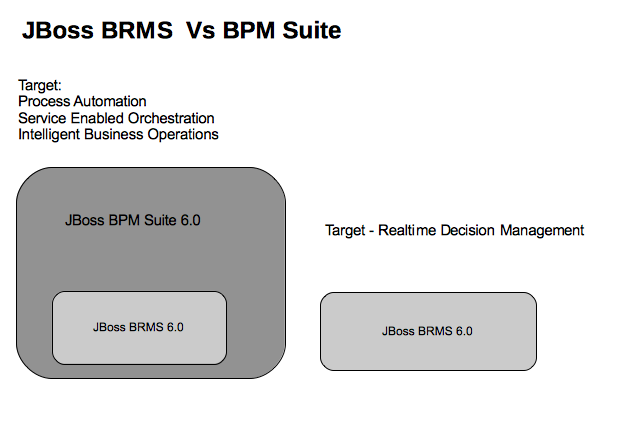
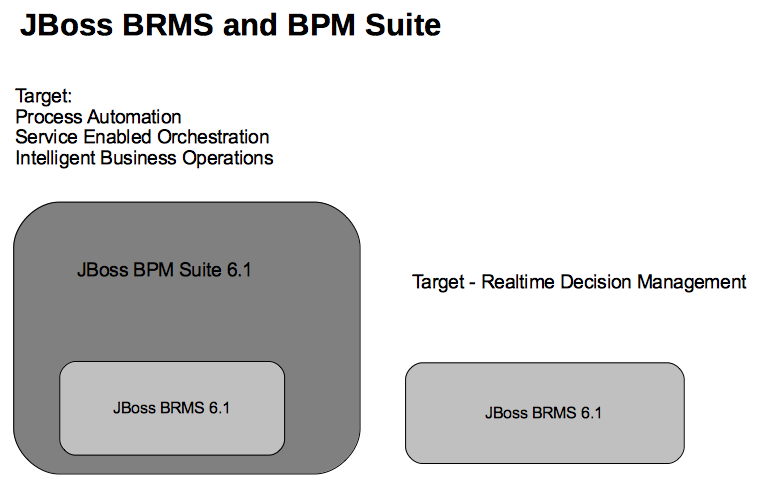
Updated for 6.1 release introduction talk.

diff --git a/introduction.html b/introduction.html
@@ -109,11 +109,27 @@
         </section>
 
         <section data-background-color="white">
-            <img width="100%" height="100%" src="images/jteimages/image43.png">
+            <img width="100%" height="100%" src="images/jteimages/image15.png">
         </section>
 
         <section data-background-color="white">
-            <img width="100%" height="100%" src="images/jteimages/image44.png">
+            <img width="100%" height="100%" src="images/jteimages/image16.png">
+        </section>
+
+        <section data-background-color="white">
+            <img width="100%" height="100%" src="images/jteimages/image17.png">
+        </section>
+
+        <section data-background-color="white">
+            <img width="100%" height="100%" src="images/jteimages/image18.png">
+        </section>
+
+        <section data-background-color="white">
+            <img width="100%" height="100%" src="images/jteimages/image19.png">
+        </section>
+
+        <section data-background-color="white">
+            <img width="100%" height="100%" src="images/jteimages/image43.png">
         </section>
 
         <section data-background-color="white">
@@ -156,10 +172,6 @@
         </section>
 
         <section data-background-color="white">
-            <img width="100%" height="100%" src="images/jteimages/image27.png">
-        </section>
-
-        <section data-background-color="white">
             <img width="100%" height="100%" src="images/jteimages/image28.png">
         </section>
 
@@ -171,31 +183,37 @@
         </section>
 
         <section data-background-color="white">
+            <div style="width: 1056px; height: 100px; color: white">
+                <h3>JBoss BRMS - Components</h3>
+            </div>
             <img src="images/brms_bpms_workshop/brms-arch.png">
         </section>
 
         <section data-background-color="white">
+            <div style="width: 1056px; height: 100px; color: white">
+                <h3>JBoss BRMS - Architecture</h3>
+            </div>
             <img width="100%" height="100%" src="images/jteimages/image34.png">
         </section>
 
         <section data-background-color="white">
-            <img width="100%" height="100%" src="images/jteimages/image35.png">
+            <div style="width: 1056px; height: 80px; color: white">
+                <h3>JBoss BPM Suite - Components</h3>
+            </div>
+            <img src="images/brms_bpms_workshop/bpmsuite-arch.png" width="60%">
         </section>
 
         <section data-background-color="white">
-            <img src="images/brms_bpms_workshop/bpmsuite-arch.png">
-        </section>
-
-        <section data-background-color="white">
+            <div style="width: 1056px; height: 100px; color: white">
+                <h3>JBoss BPM Suite - Architecture</h3>
+            </div>
             <img width="100%" height="100%" src="images/jteimages/image37.png">
         </section>
 
-        <section data-background-color="white">
-            <img width="100%" height="100%" src="images/jteimages/image38.png">
-        </section>
-
         <section data-background="images/jteimages/image42.png" data-background-position="top">
-            <div style="width: 1056px; height: 100px;" align="right">
+            <div style="width: 1056px; height: 450px;" align="right">
+            </div>
+            <div style="width: 1156px; height: 100px;" align="right">
                 <div style="width: 500px; height: 100px;" align="left">
                     Eric D. Schabell<br>
                     JBoss Technology Evangelist<br>
